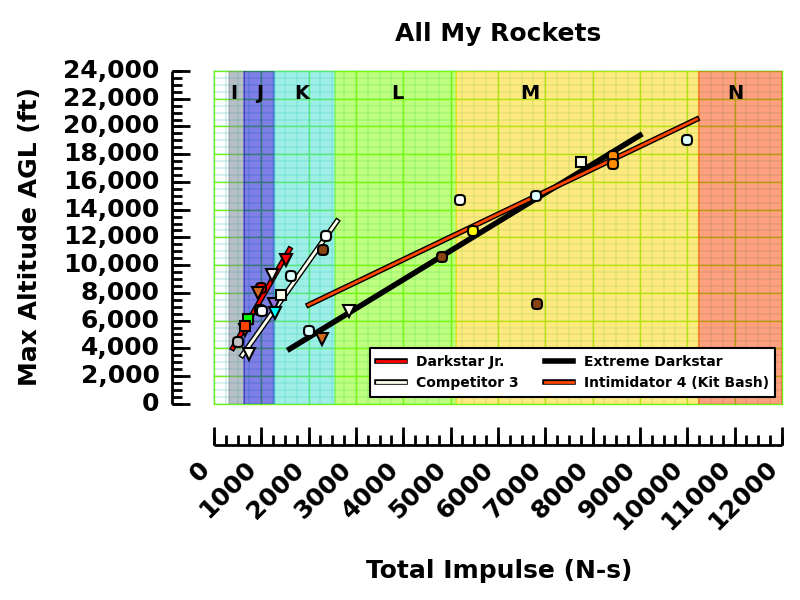
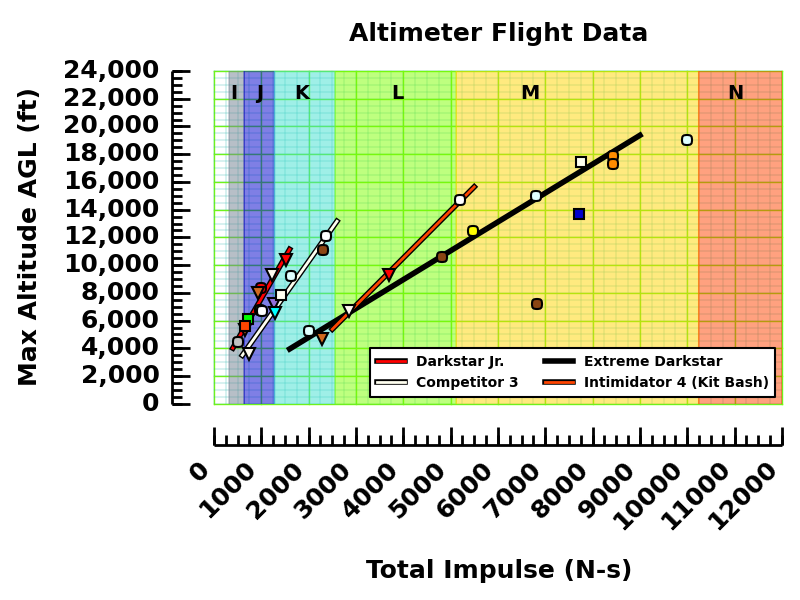
Added Loki L1040.

diff --git a/plots/MasterPlots_v3.py b/plots/MasterPlots_v3.py
@@ -163,22 +163,26 @@ def FlightLog_Intimidator4():
     ttl = r"Intimidator 4 (Kit Bash)"
 
     # Month/Day/Year/Motor/Mfg/Itot/Fave/Alt
-    data = [['Nov',  '1', '2014', 'M3400',  'CTI', 9994.5, 3400, 19035],\
+    dold = [['Nov',  '1', '2014', 'M3400',  'CTI', 9994.5, 3400, 19035],\
             ['Oct', '31', '2015', 'M1419',   'AT', 7755.5, 1419, 17449],\
-            #['Nov',  '5', '2016', 'M2400',   'AT', 7716.5, 2400, 13655],\
-            ['Mar', '10', '2018', 'M1101',  'CTI', 5197.6, 1101, 14698],\
-            ['Sep',  '1', '2019', 'M2020',  'CTI', 8429.4, 2020, 17319],\
-            ['Oct', '12', '2019', 'L1400', 'LOKI', 2850.6, 1400, 6727]]
+            ['Nov',  '5', '2016', 'M2400',   'AT', 7716.5, 2400, 13655],\
+            ['Sep',  '1', '2019', 'M2020',  'CTI', 8429.4, 2020, 17319]]
+
+    data = [['Mar', '10', '2018', 'M1101',  'CTI', 5197.6, 1101, 14698],\
+            ['Oct', '12', '2019', 'L1400', 'LOKI', 2850.6, 1400,  6727],\
+            ['Nov',  '9', '2019', 'L1040', 'LOKI', 3707.0, 1040,  9268]]
 
     # Marker size/type/color
-    symb = [[10, "o", "lightcyan"    ],\
+    sold = [[10, "o", "lightcyan"    ],\
             [10, "s", "ivory"        ],\
-            #[10, "s", "mediumblue"   ],\
-            [10, "o", "white"        ],\
-            [10, "o", "darkorange"   ],\
-            [12, "v", "floralwhite"  ]]
+            [10, "s", "mediumblue"   ],\
+            [10, "o", "darkorange"   ]]
 
-    return [ttl,data,symb]
+    symb = [[10, "o", "white"        ],\
+            [12, "v", "floralwhite"  ],\
+            [12, "v", "red"          ]]
+
+    return [ttl,data,symb,dold,sold]
 
 ###########################################################################
 # Gizmo XL DD by WildMan, Maiden Flight November 10, 2018.
@@ -1142,9 +1146,9 @@ def AltPlot_ALL(fout,title):
                 linecolor='black'
                 rlabel='Extreme Darkstar'
             if k==3:
-                [ttl,data,symb] = FlightLog_Intimidator4()
-                lb = 2000
-                ub = 10200
+                [ttl,data,symb,d2,s2] = FlightLog_Intimidator4()
+                lb = 2500
+                ub = 5500
                 linecolor='orangered'
                 rlabel='Intimidator 4 (Kit Bash)'
             if k==4:
@@ -1197,6 +1201,43 @@ def AltPlot_ALL(fout,title):
                         markeredgewidth=1.5,markeredgecolor='k',\
                         markerfacecolor=mc,label='_nolegend_',marker=mt)
                 i+=1
+
+    # Extra Symbols.
+    [ttl,data,symb,d2,s2] = FlightLog_Intimidator4()
+
+    nf=0
+    for flight in d2:
+        nf=nf+1
+    print "There are ",nf," flights in the databse."
+
+    xdat=np.zeros(nf)
+    ydat=np.zeros(nf)
+    i=0
+    for flight in d2:
+        xdat[i]=flight[5]
+        ydat[i]=flight[7]
+        i+=1
+
+    print 'xdat = ',xdat
+    print 'ydat = ',ydat
+
+    i=0
+    for flight in d2:
+        j=0
+        for marker in s2:
+            if (i==j):
+                ms = marker[0]*0.75
+                mt = marker[1]
+                mc = marker[2]
+            j+=1
+        mfg = flight[4]
+        motor = flight[3]
+        str1=r'%s %s'%(mfg,motor)
+        print str1
+        plt.plot(xdat[i],ydat[i],'ko',markersize=ms,\
+            markeredgewidth=1.5,markeredgecolor='k',\
+            markerfacecolor=mc,label='_nolegend_',marker=mt)
+        i+=1
 
     # legend location code.
     # ========================
@@ -1255,9 +1296,9 @@ ub = 9000
 AltPlot_JN(fout,ttl,data,symb,lb,ub)
 
 fout = 'Intmd4KB_Alt'
-[ttl,data,symb] = FlightLog_Intimidator4()
-lb = 2000
-ub = 10200
+[ttl,data,symb,d2,s2] = FlightLog_Intimidator4()
+lb = 2500
+ub = 5500
 AltPlot_JN(fout,ttl,data,symb,lb,ub)
 
 fout = 'GizmoXLDD_Alt'
@@ -1265,5 +1306,5 @@ fout = 'GizmoXLDD_Alt'
 AltPlot_JN(fout,ttl,data,symb,lb,ub)
 
 fout = 'Fleet_Alt'
-ttl = 'All My Rockets'
+ttl = 'Altimeter Flight Data'
 AltPlot_ALL(fout,ttl)
